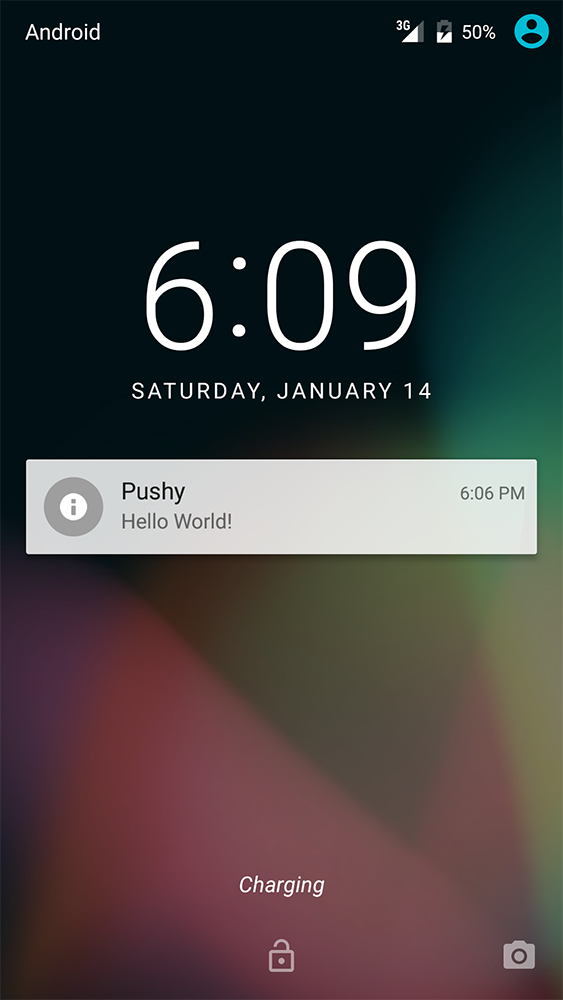
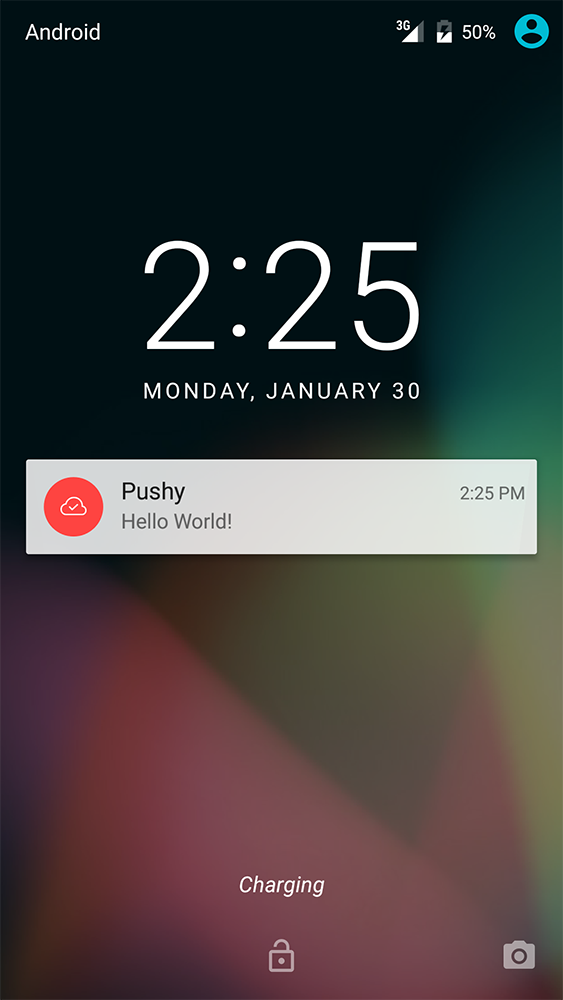
Improve test notification branding

Changed region(s): [[0.2416, 0.217, 0.7851, 0.403], [0.0604, 0.465, 0.1812, 0.558], [0.8153, 0.465, 0.8757, 0.496]]

diff --git a/app/src/main/java/me/pushy/example/PushReceiver.java b/app/src/main/java/me/pushy/example/PushReceiver.java
@@ -22,11 +22,12 @@ public class PushReceiver extends BroadcastReceiver {
 
         // Prepare a notification with vibration, sound and lights
         NotificationCompat.Builder mBuilder = new NotificationCompat.Builder(context)
-                .setSmallIcon(android.R.drawable.ic_dialog_info)
+                .setSmallIcon(R.mipmap.ic_notify)
                 .setContentTitle(notificationTitle)
                 .setContentText(notificationText)
                 .setLights(Color.RED, 1000, 1000)
                 .setVibrate(new long[]{0, 400, 250, 400})
+                .setColor(context.getResources().getColor(R.color.colorPrimary))
                 .setSound(RingtoneManager.getDefaultUri(RingtoneManager.TYPE_NOTIFICATION));
 
         // Get an instance of the NotificationManager service
